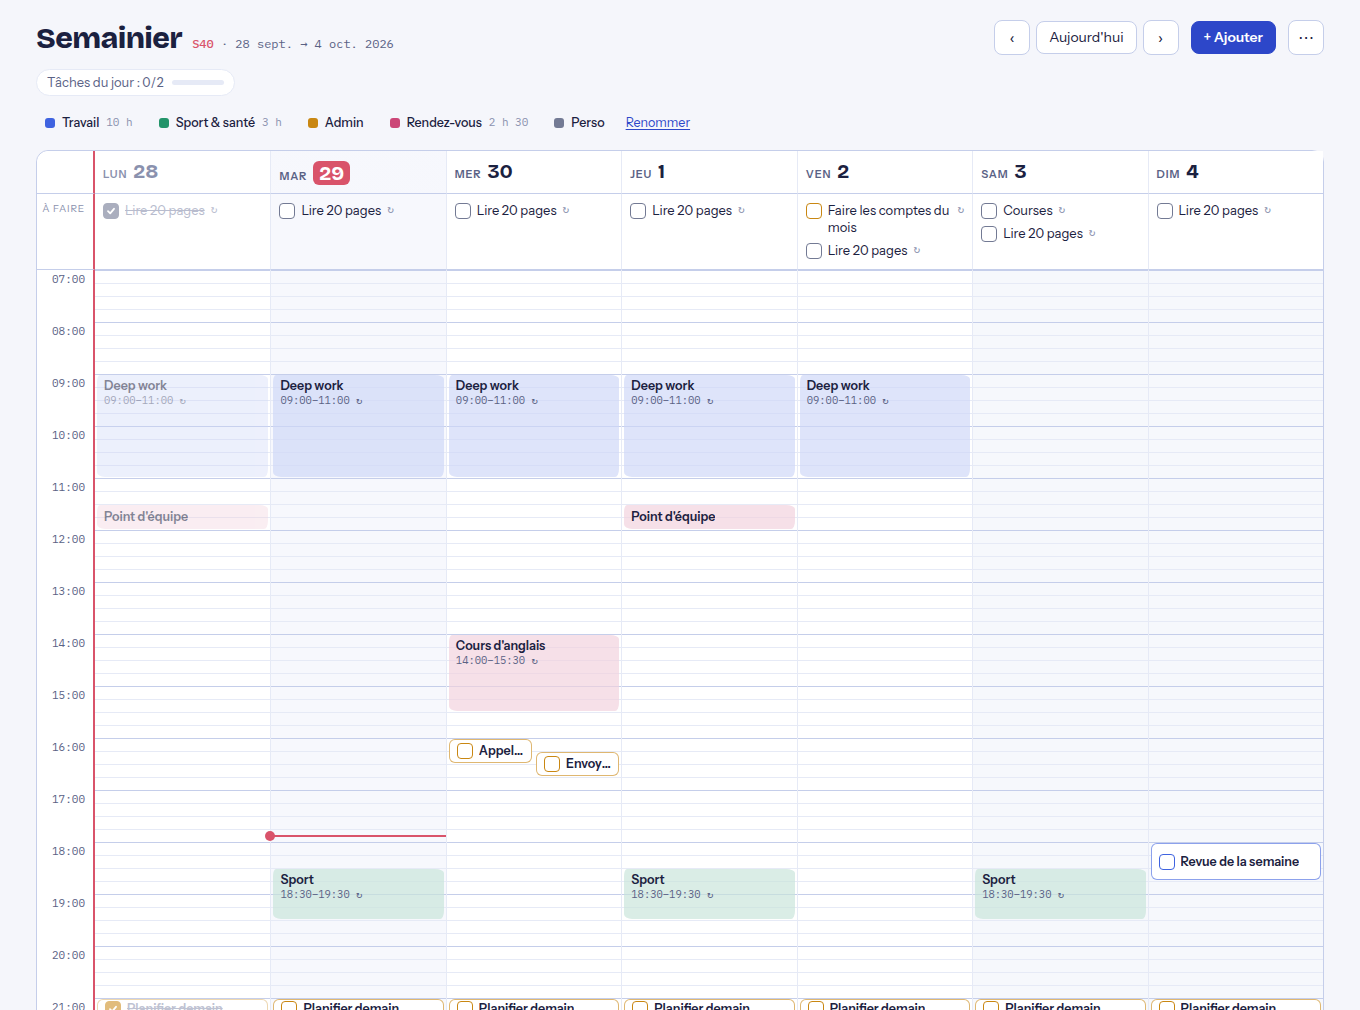
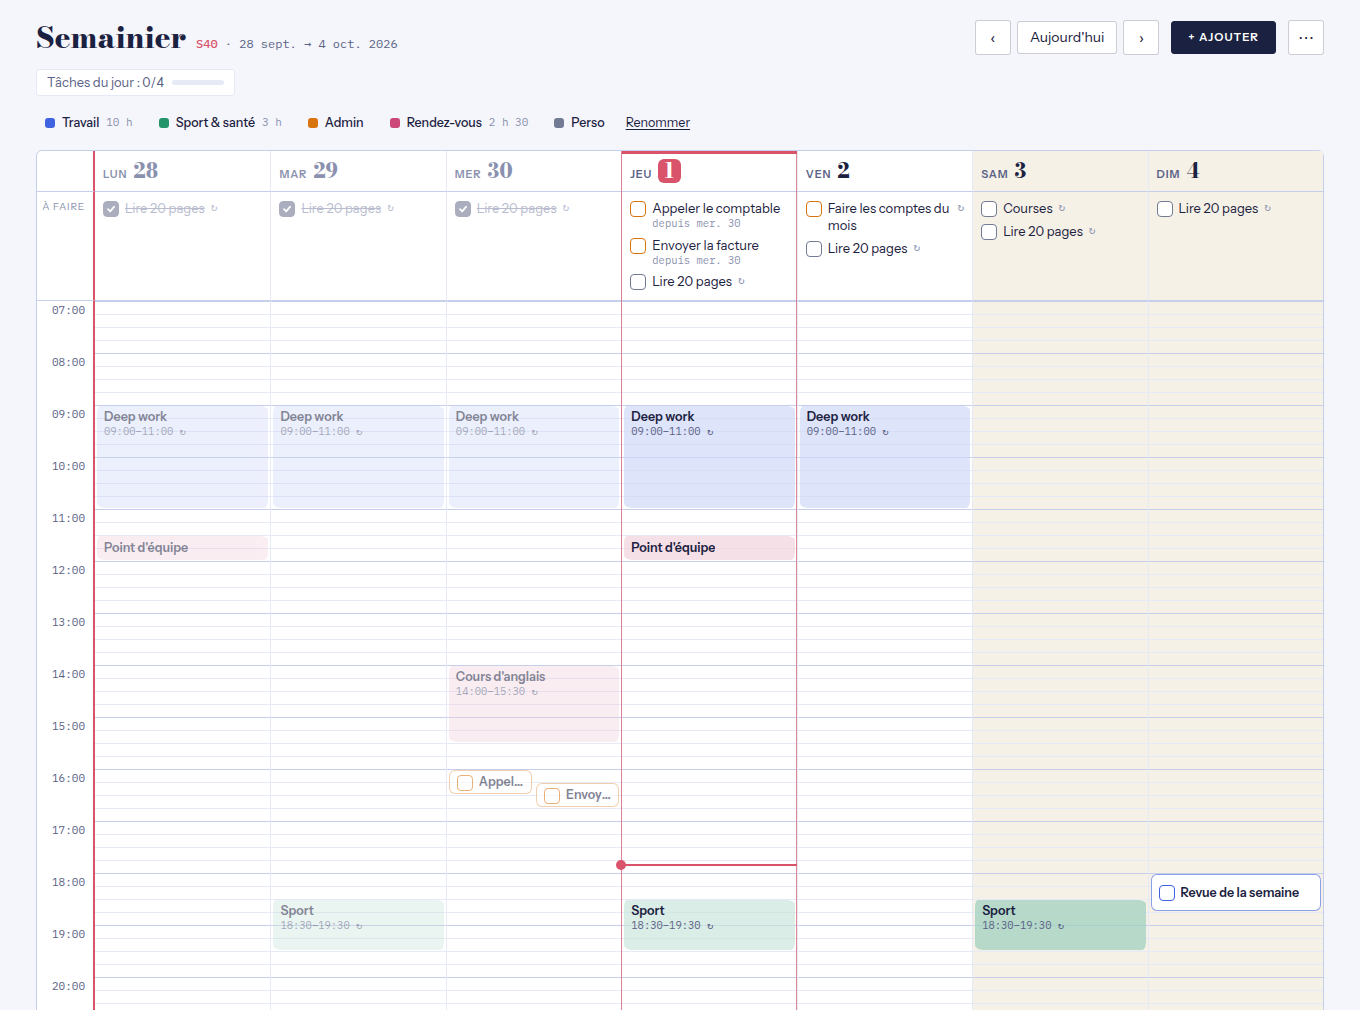
README : captures et descriptions à jour de la v1.2.0

diff --git a/README.md b/README.md
@@ -2,12 +2,12 @@
 
 Planning personnel en vue semaine, pensé comme une page de cahier : on y **bloque des créneaux** et on y **coche des tâches récurrentes** qui se remettent à zéro chaque jour, chaque semaine ou chaque mois.
 
-[![Démo](https://img.shields.io/badge/d%C3%A9mo-en%20ligne-2D47C9)](https://semainier-cadgeff.pages.dev/#demo)
+[![Démo](https://img.shields.io/badge/d%C3%A9mo-en%20ligne-D9536A)](https://semainier-cadgeff.pages.dev/#demo)
 [![CI](https://github.com/CadGeff/semainier/actions/workflows/ci.yml/badge.svg)](https://github.com/CadGeff/semainier/actions/workflows/ci.yml)
 [![En-têtes de sécurité : A+](https://img.shields.io/badge/securityheaders.com-A%2B-23946A)](https://securityheaders.com/?q=semainier-cadgeff.pages.dev&followRedirects=on)
 [![JavaScript sans framework](https://img.shields.io/badge/JavaScript-sans%20framework-1B2140)](#stack-technique)
 [![Supabase](https://img.shields.io/badge/Supabase-Postgres%20%2B%20RLS-23946A)](#sécurité)
-[![PWA](https://img.shields.io/badge/PWA-installable-C98712)](#fonctionnalités)
+[![PWA](https://img.shields.io/badge/PWA-installable-D9730D)](#fonctionnalités)
 [![Licence MIT](https://img.shields.io/badge/licence-MIT-737A94)](LICENSE)
 
 **[→ Essayer la démo](https://semainier-cadgeff.pages.dev/#demo)**, sans compte, avec des données d'exemple stockées dans votre navigateur.
@@ -27,9 +27,9 @@ J'ai aussi voulu garder la main sur toute la chaîne. Le code, les polices et le
 - **Tâches à cocher**, avec ou sans heure. Les tâches sans heure vont dans la ligne « À faire » du jour.
 - **Récurrence** quotidienne, hebdomadaire (jours au choix) ou mensuelle. Le 31 retombe sur le dernier jour des mois courts.
 - **Report des tâches non faites** : une tâche ponctuelle qui n'a pas été cochée réapparaît le lendemain dans « À faire », sans heure, pendant 7 jours au plus. Elle reste visible à sa date prévue, et la cocher la marque faite partout. Le report est calculé à l'affichage : rien n'est modifié en base tant qu'on ne coche pas.
-- **Cocher ne vaut que pour le jour même** : l'occurrence suivante revient vierge. On peut aussi retirer un seul jour d'une série sans toucher au reste.
+- **Pour une tâche récurrente, cocher ne vaut que pour le jour même** : l'occurrence suivante revient vierge. On peut aussi retirer un seul jour d'une série sans toucher au reste.
 - **Catégories nommées** (Travail, Sport & santé, Admin…) : la légende affiche le temps bloqué par catégorie sur la semaine, et un clic sur une catégorie efface les autres. Les noms sont modifiables et synchronisés entre appareils.
-- **Repères visuels** : jours passés atténués, colonne du jour, ligne de l'heure actuelle, compteur des tâches du jour.
+- **Repères visuels** : jours passés atténués, jour courant encadré, week-end teinté, ligne de l'heure actuelle, compteur des tâches du jour.
 - **Thème Auto, Clair ou Sombre**, réglable sur chaque appareil. Auto suit le système.
 - **Notifications** empilées en bas de l'écran, trois au maximum : une confirmation disparaît seule, une erreur ou le résultat d'un import reste jusqu'au clic sur « OK ».
 - **Raccourcis clavier** : <kbd>←</kbd> <kbd>→</kbd> pour changer de semaine, <kbd>T</kbd> pour aujourd'hui, <kbd>N</kbd> pour un nouvel élément.
@@ -58,7 +58,7 @@ J'ai aussi voulu garder la main sur toute la chaîne. Le code, les polices et le
 flowchart LR
     subgraph Navigateur
         UI["Interface<br/>board, form, menu, session…"] --> ST["state.js<br/>état + file d'écritures"]
-        UI --> REC["recurrence.js · layout.js · items.js<br/>fonctions pures"]
+        UI --> REC["recurrence.js · carry.js · layout.js<br/>items.js · backup.js · errors.js<br/>fonctions pures"]
         ST --> STO["store.js<br/>couche de stockage"]
         SW["sw.js<br/>cache hors connexion"]
     end
@@ -69,9 +69,9 @@ flowchart LR
     API --> PG[("Postgres<br/>items, settings + RLS")]
 ```
 
-**Une règle, pas des occurrences.** La base stocke chaque élément une seule fois, avec sa règle de répétition. Les occurrences sont calculées à l'affichage par `recurrence.js`, un module de fonctions pures couvert par des tests. Deux tableaux JSON par élément gardent les exceptions : `done`, pour les jours cochés, et `skipped`, pour les jours retirés de la série.
+**Une règle, pas des occurrences.** La base stocke chaque élément une seule fois, avec sa règle de répétition. Les occurrences sont calculées à l'affichage par `recurrence.js`, et le report des tâches non faites par `carry.js` : deux modules de fonctions pures couverts par des tests. Deux objets JSON par élément gardent les exceptions : `done`, pour les jours cochés, et `skipped`, pour les jours retirés de la série.
 
-**Modules sans effet de bord.** Chaque module d'interface exporte une fonction `init…()` appelée par `app.js` : importer un module ne pose aucun écouteur et ne déclenche aucun rendu, ce qui rend l'ordre de démarrage explicite. La logique métier (récurrence, placement des créneaux, validation des imports, traduction des erreurs) vit dans des modules purs, testés sous Node sans navigateur.
+**Modules sans effet de bord.** Chaque module d'interface exporte une fonction `init…()` appelée par `app.js` : importer un module ne pose aucun écouteur et ne déclenche aucun rendu, ce qui rend l'ordre de démarrage explicite. La logique métier (récurrence, report des tâches, placement des créneaux, validation des imports, sauvegarde, traduction des erreurs) vit dans des modules purs, testés sous Node sans navigateur.
 
 **Trois modes, une interface.** `store.js` expose la même interface (`list`, `save`, `remove`…) derrière trois implémentations : Supabase en production, `localStorage` pour la démo publique (`#demo`), et un mode local quand `config.js` est vide. L'interface ne sait pas où vont les données.
 
@@ -79,14 +79,16 @@ flowchart LR
 
 | Colonne | Type | Rôle |
 |---|---|---|
-| `id` | `uuid` | Identifiant généré côté client, pour que l'import et la création soient rejouables sans doublon |
+| `id` | `uuid` | Identifiant généré côté client : une écriture rejouée met à jour la même ligne au lieu d'en créer une seconde |
 | `user_id` | `uuid` | Propriétaire, rempli par défaut avec `auth.uid()` |
+| `title` | `text` | Intitulé, de 1 à 120 caractères |
 | `kind` | `text` | `block` (créneau bloqué) ou `task` (tâche à cocher) |
 | `start_date` | `date` | Première occurrence |
 | `time_from`, `time_to` | `time` | Horaires : les deux ou aucun, et la fin après le début |
 | `recur` | `text` | `none`, `daily`, `weekly` ou `monthly` |
 | `days` | `smallint[]` | Jours actifs en hebdomadaire, de 0 (lundi) à 6 (dimanche) |
-| `done`, `skipped` | `jsonb` | Occurrences cochées ou retirées : `{ "AAAA-MM-JJ": true }` |
+| `cat` | `text` | Catégorie, parmi cinq couleurs |
+| `done`, `skipped` | `jsonb` | Occurrences cochées ou retirées : `{ "AAAA-MM-JJ": true }`. Pour une tâche ponctuelle, `done` retient le jour où elle a été faite |
 
 Une seconde table, `settings`, contient une ligne par utilisateur avec les noms des catégories (`cat_labels`), sous la même RLS. Toutes ces contraintes sont vérifiées par Postgres lui-même (voir [`supabase/schema.sql`](supabase/schema.sql)).
 
@@ -140,7 +142,7 @@ Pour un outil ouvert plusieurs fois par jour, un code à chaque connexion est un
 **Risques résiduels, assumés**
 
 - **Appareil déverrouillé** : quiconque tient un téléphone ou un PC ouvert voit le planning. Le verrouillage de l'appareil reste la première ligne de défense.
-- **Jeton en `localStorage`** : un XSS réussi pourrait le lire. La CSP et l'échappement systématique rendent ce scénario très improbable, et le jeton expire au bout d'une heure.
+- **Jetons en `localStorage`** : un XSS réussi pourrait lire le jeton d'accès et le jeton de renouvellement stocké à côté. La CSP et l'échappement systématique rendent ce scénario très improbable. « Se déconnecter » révoque les jetons de renouvellement sur tous les appareils ; un jeton d'accès déjà émis reste valable jusqu'à son expiration, une heure par défaut.
 - **Données en clair côté serveur** : Supabase chiffre le disque, mais un administrateur du projet (ou de Supabase) peut lire les tables. Un chiffrement de bout en bout protégerait de ce cas, au prix de la recherche et de la synchro simple.
 - **Hébergeur** : Cloudflare voit passer les requêtes vers les fichiers du site (adresse IP, date), mais pas les données du planning, qui vont directement du navigateur à Supabase. Son réseau ajoute aussi les en-têtes `NEL` / `Report-To` (impossibles à retirer sur une adresse `pages.dev`) : en cas d'échec de chargement, le navigateur lui envoie un rapport d'erreur réseau, sans contenu de page. Le site ne dépend d'aucune fonctionnalité propre à Cloudflare : il se redéploie ailleurs tel quel.
 - **Chaîne d'approvisionnement** : une compromission du compte GitHub ou Cloudflare permettrait de servir un code modifié. Parade : mots de passe uniques, 2FA sur GitHub, Cloudflare et Supabase, accès de Cloudflare limité à ce seul dépôt. Les dépendances npm ne servent qu'au développement et ne sont jamais déployées ; les actions GitHub sont épinglées par empreinte de commit et le workflow n'a que le droit de lecture.
@@ -246,6 +248,7 @@ tests/unit/               tests node:test
 tests/e2e/                tests Playwright et simulation de Supabase
 tests/server.js           serveur local avec les en-têtes de production
 .github/                  CI et Dependabot
+types/                    déclarations de types pour la vérification JSDoc
 docs/                     captures du README
 ```
 
